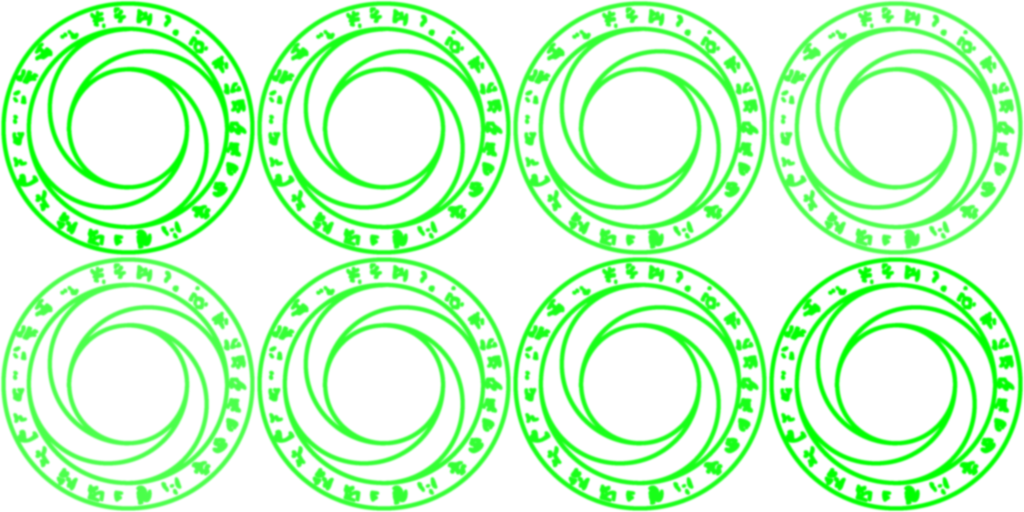
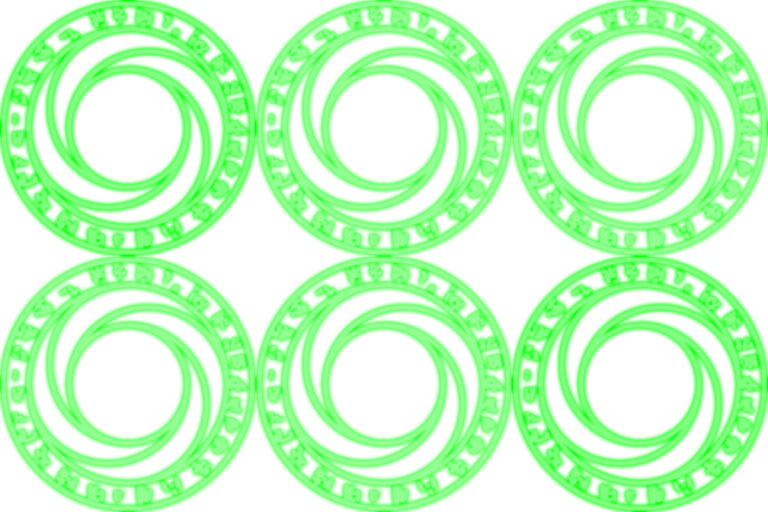
Simplified a bit the save point graphics.
Not much was to be done in fact.

Closes #266

diff --git a/src/modes/map/map_mode.cpp b/src/modes/map/map_mode.cpp
@@ -90,10 +90,6 @@ MapMode::MapMode(const std::string &data_filename, const std::string& script_fil
 
     // Load the save point animation files.
     AnimatedImage anim;
-    anim.LoadFromAnimationScript("img/misc/save_point/save_point4.lua");
-    active_save_point_animations.push_back(anim);
-
-    anim.Clear();
     anim.LoadFromAnimationScript("img/misc/save_point/save_point3.lua");
     active_save_point_animations.push_back(anim);
 
